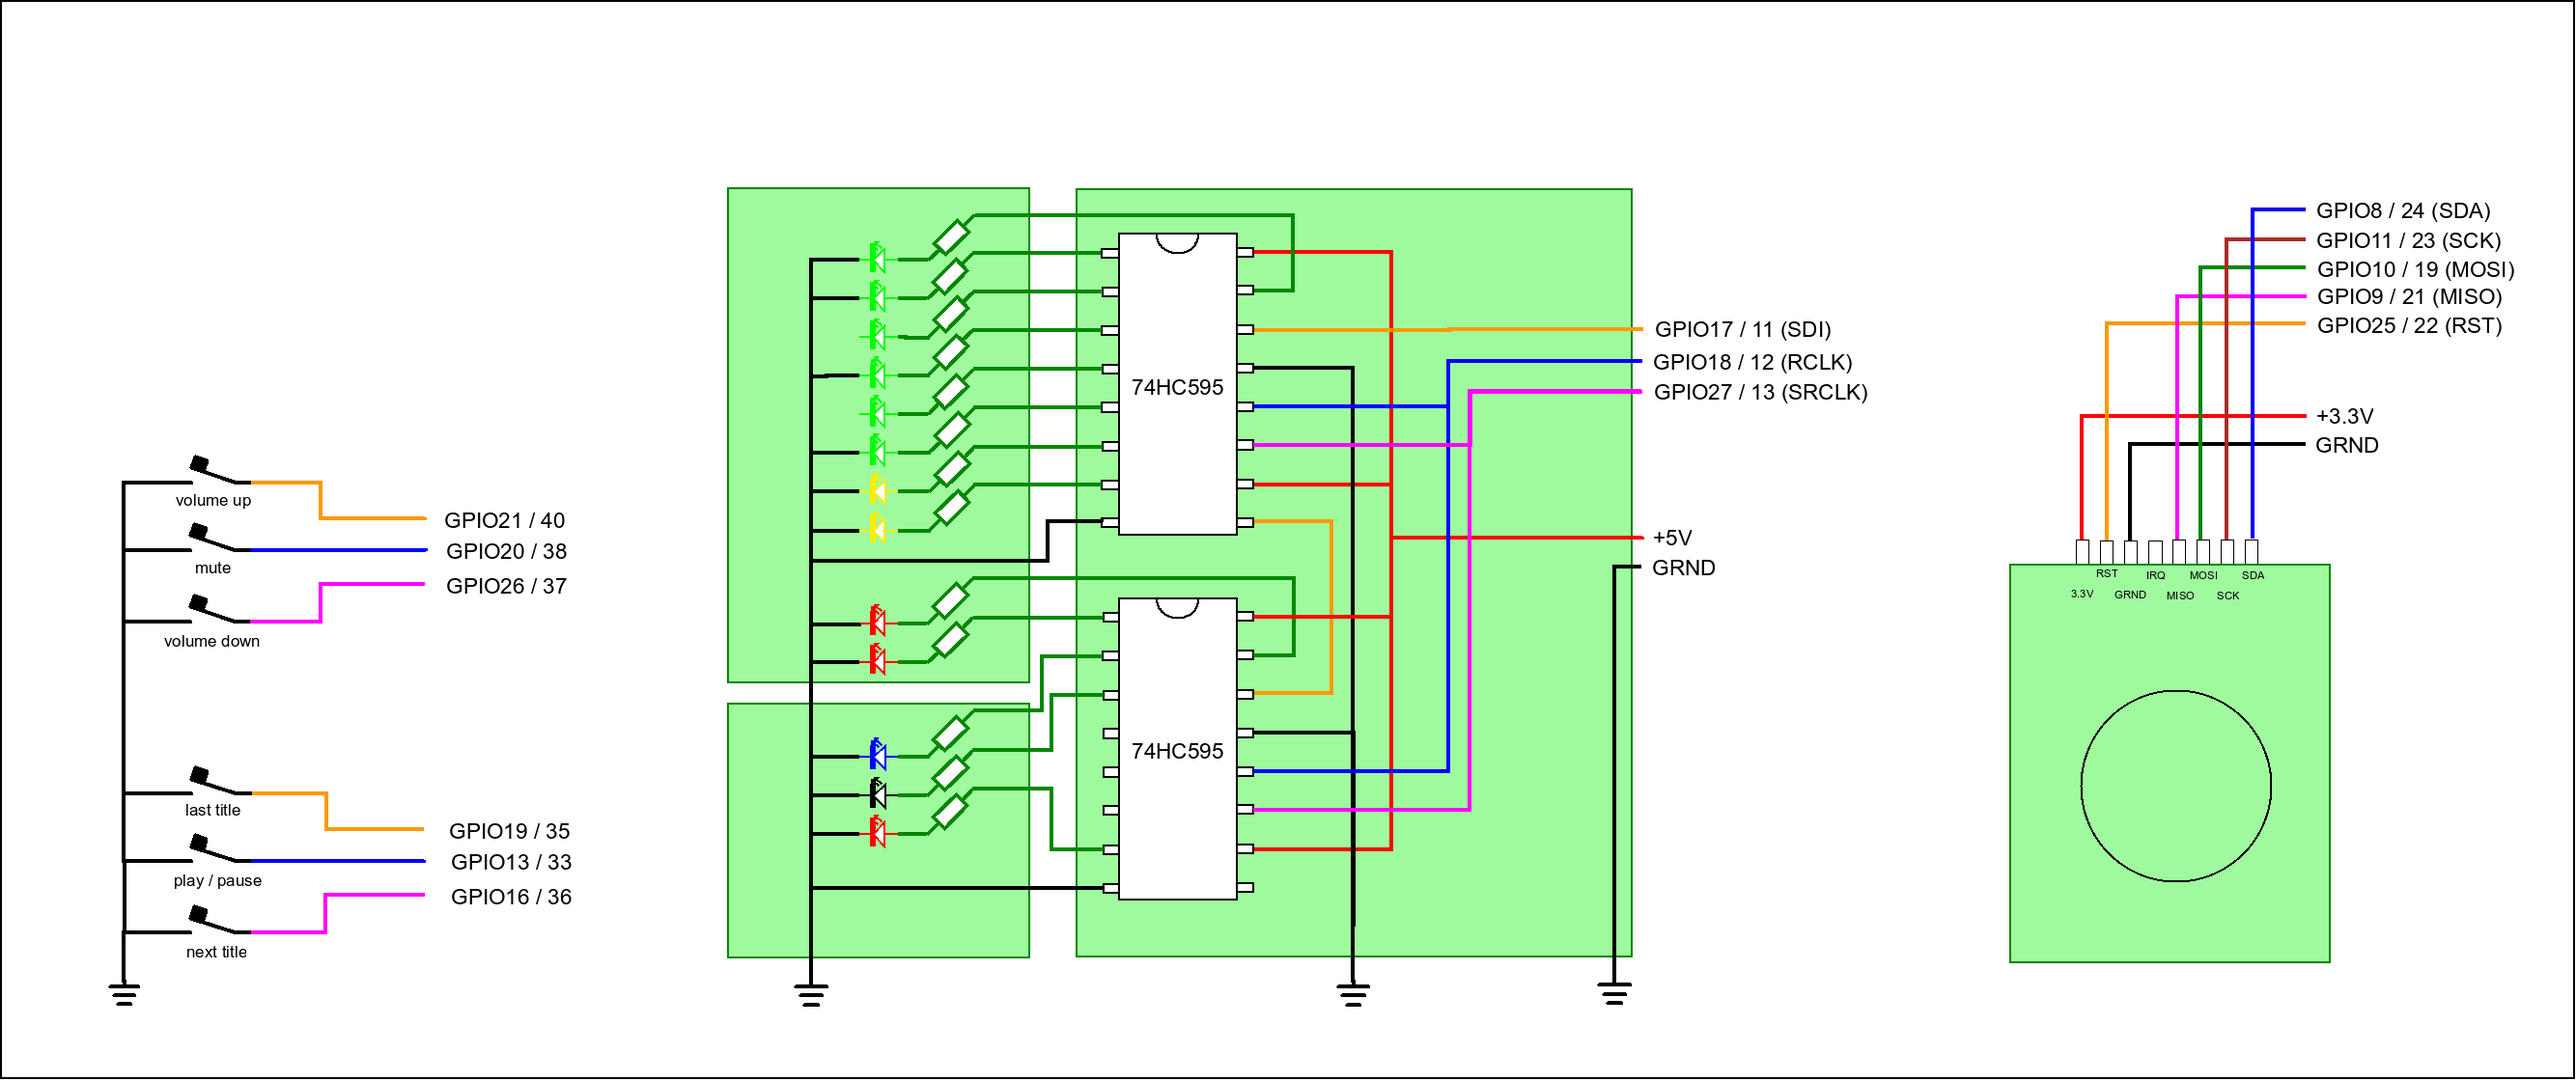
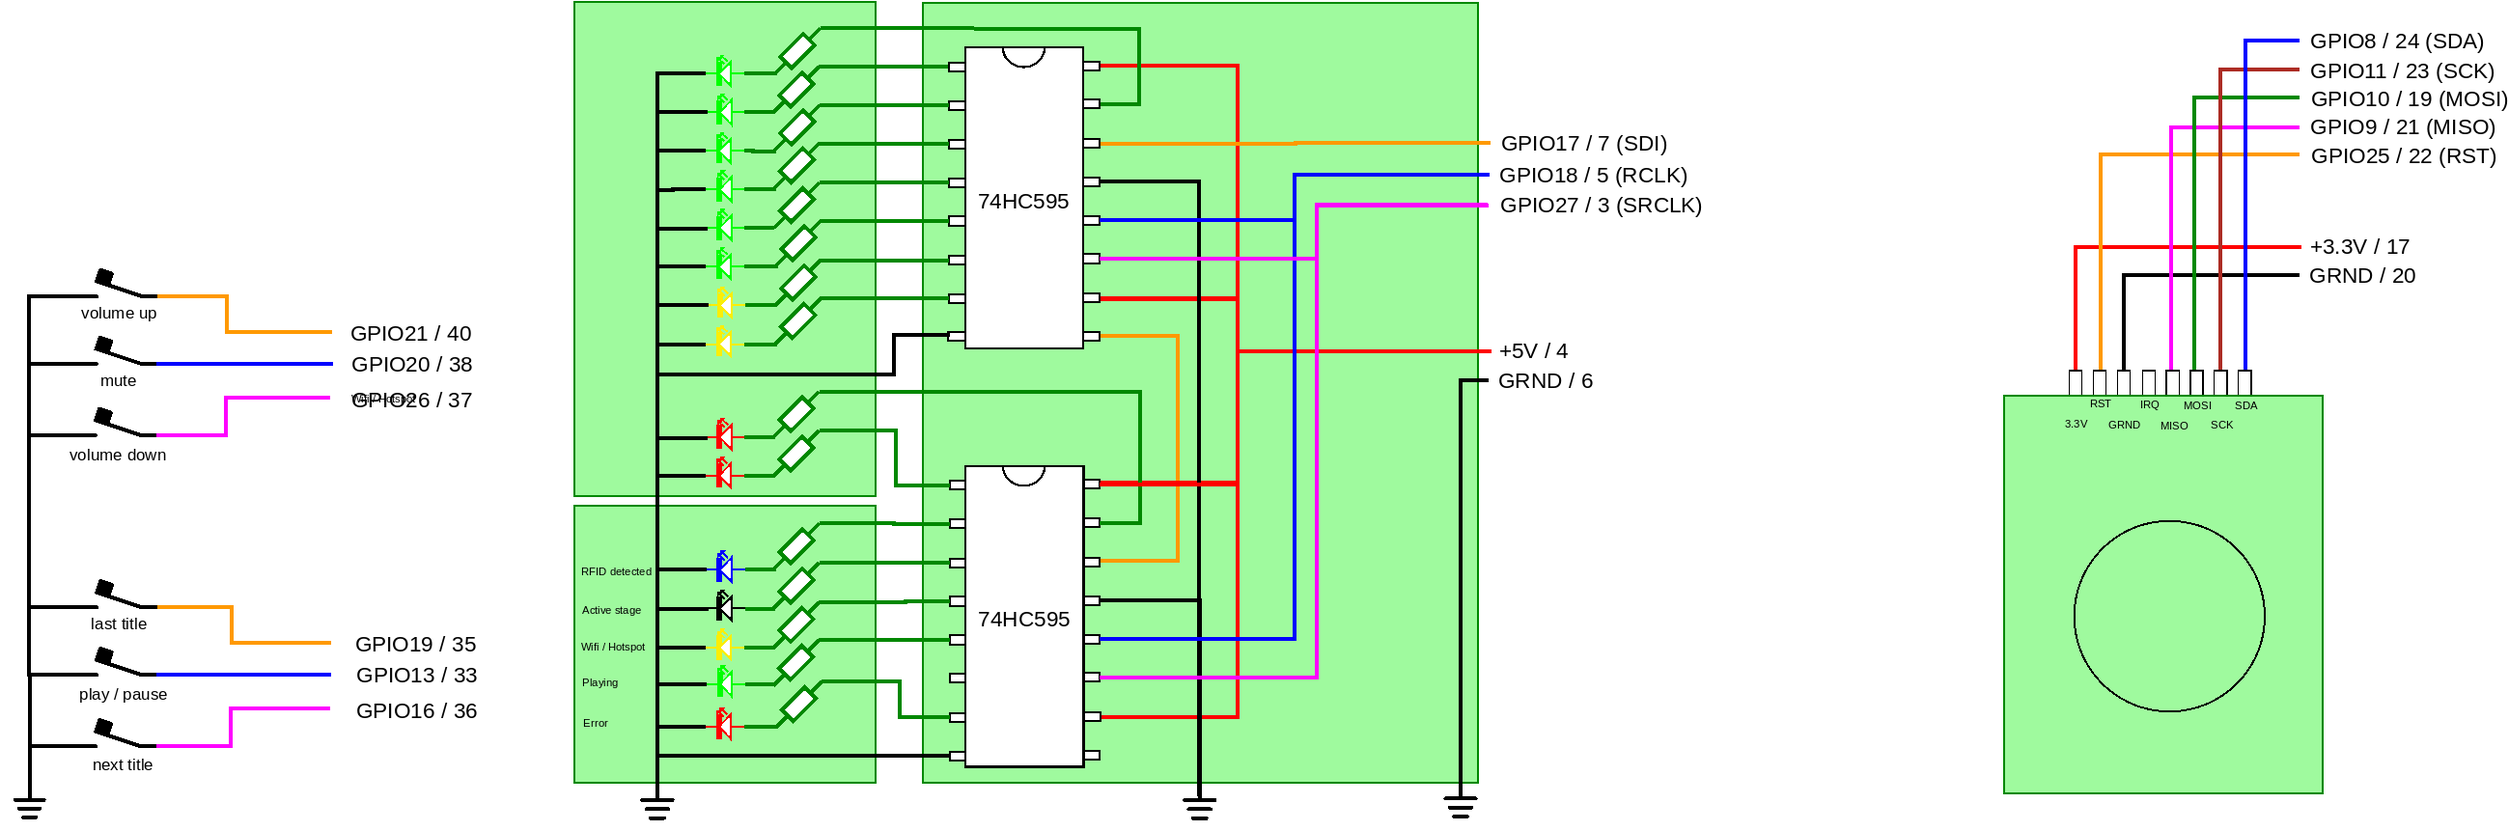
info: update wiring and gpio pins

diff --git a/server/modules_gpio/config.py b/server/modules_gpio/config.py
@@ -3,9 +3,11 @@
 # For LED
 #------------------------------
 led_pins = {
-            "SDI"    : 11, #23 #11
-            "RCLK"   : 12, #24 #12
-            "SRCLK"  : 13  #26 #13
+            "SDI"    : 7, 
+            "RCLK"   : 5, 
+            "SRCLK"  : 3, 
+            "GRND"   : "(6) connected to GROUND",
+            "5V"     : "(4) connected to 5V"
             }
 
 # For BUTTONS
@@ -29,7 +31,7 @@ rfid_pins = {
              "MOSI"    : 19,
              "MISO"    : 21,
              "IRQ"     : "not used",
-             "GND"     : "(9) connected to GROUND",
+             "GND"     : "(20) connected to GROUND",
              "RST"     : 22,
              "VCC"     : "(17) connected to 3.3V"
              }
@@ -37,7 +39,7 @@ rfid_pins = {
 # Overview GPIO Raspberry Pi 3 / Pi Zero
 # -----------------------------
 #    3.3V     1  :   2    5V
-#   GPIO2     3  :   4    5v
+#   GPIO2     3  :   4    5V
 #   GPIO3     5  :   6    GND
 #   GPIO4     7  :   8    GPIO14
 #     GND     9  :  10    GPIO15
